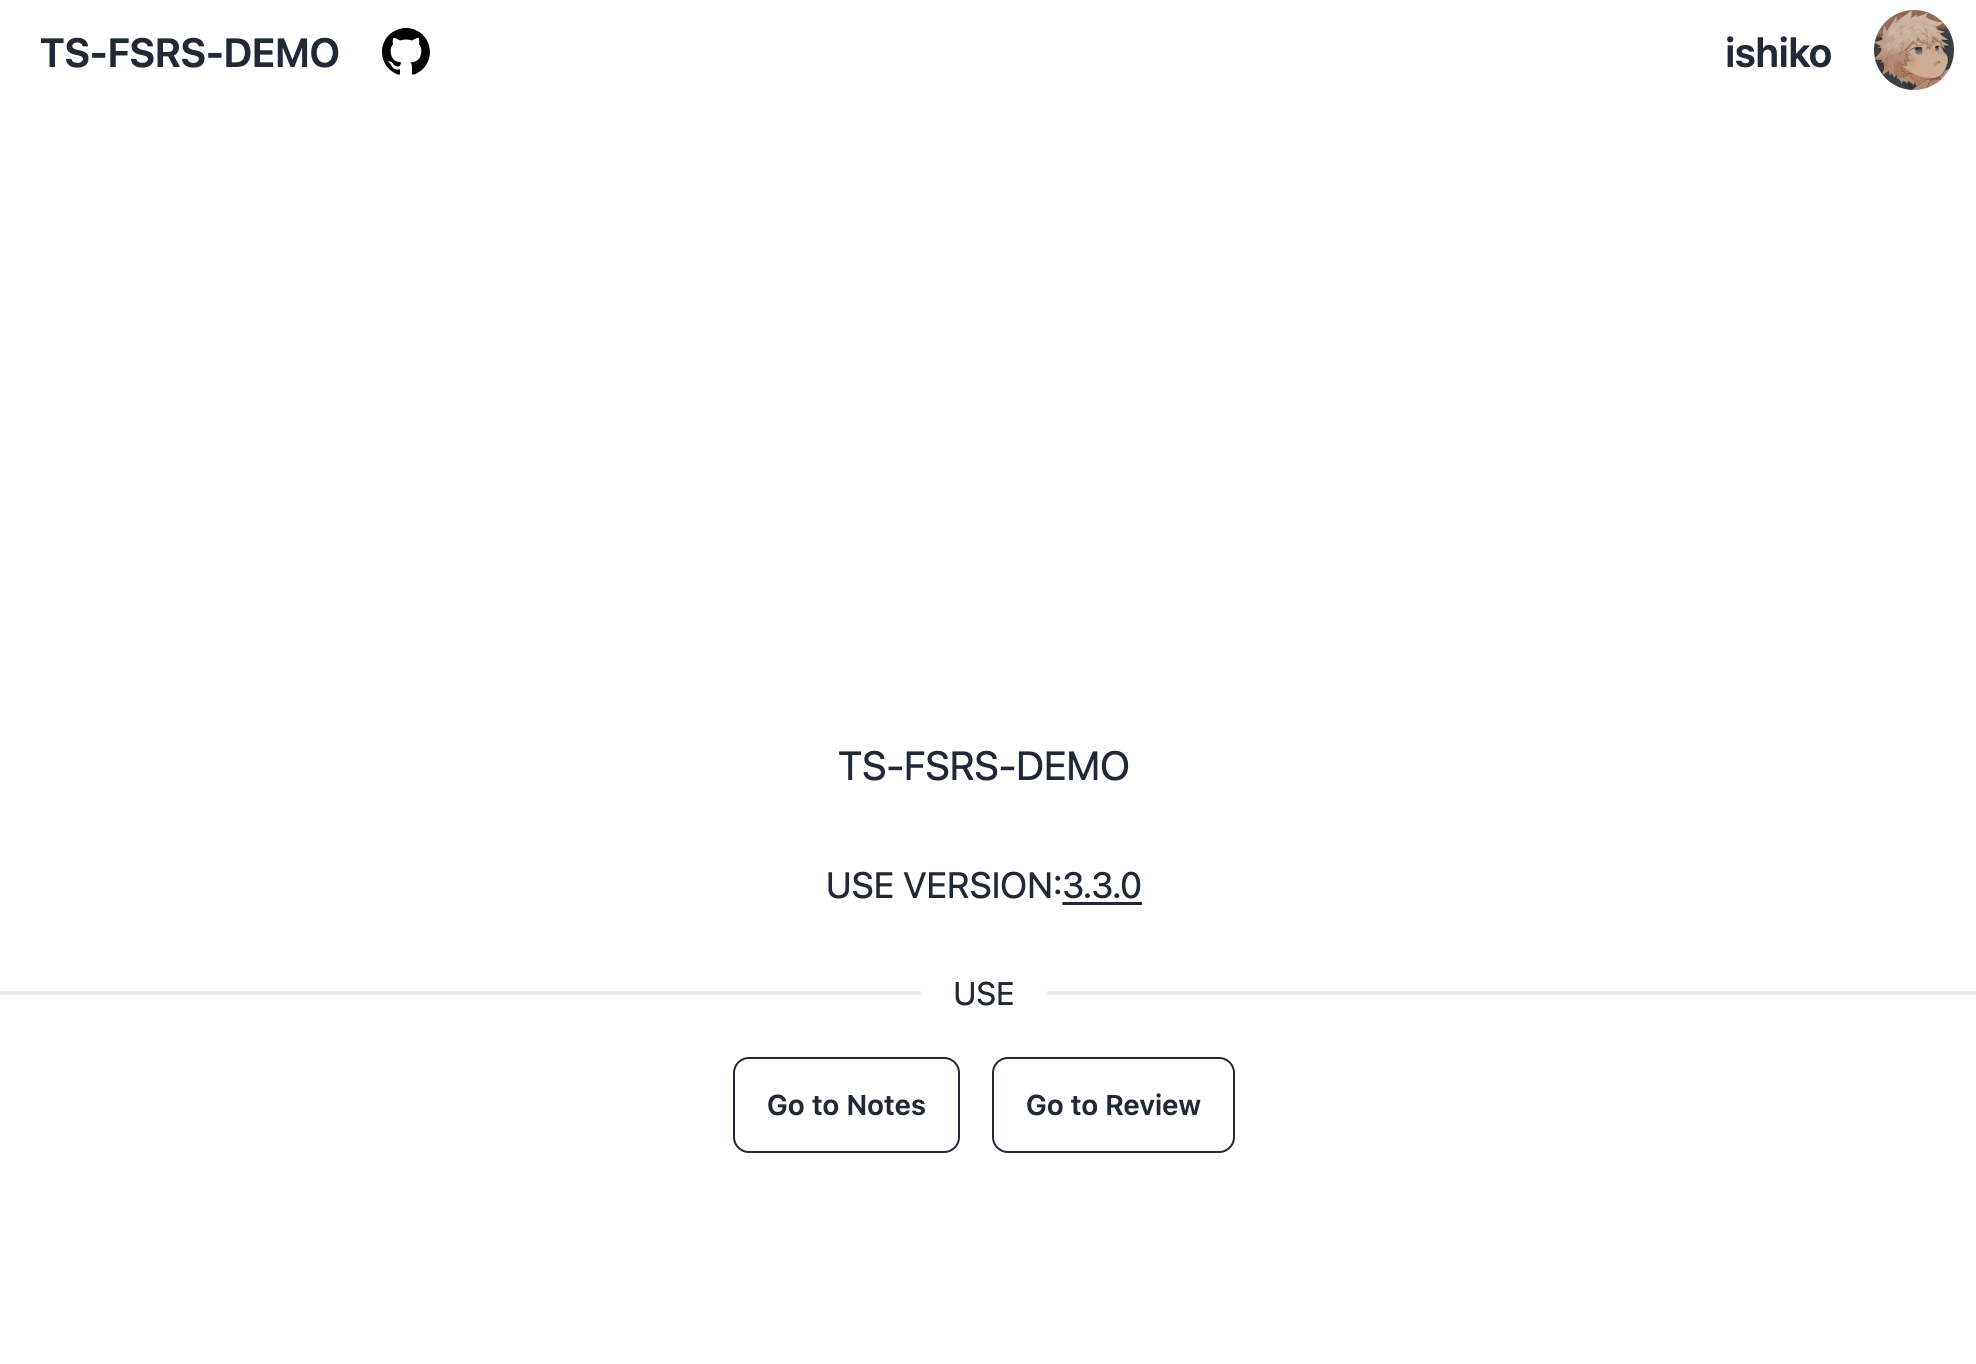
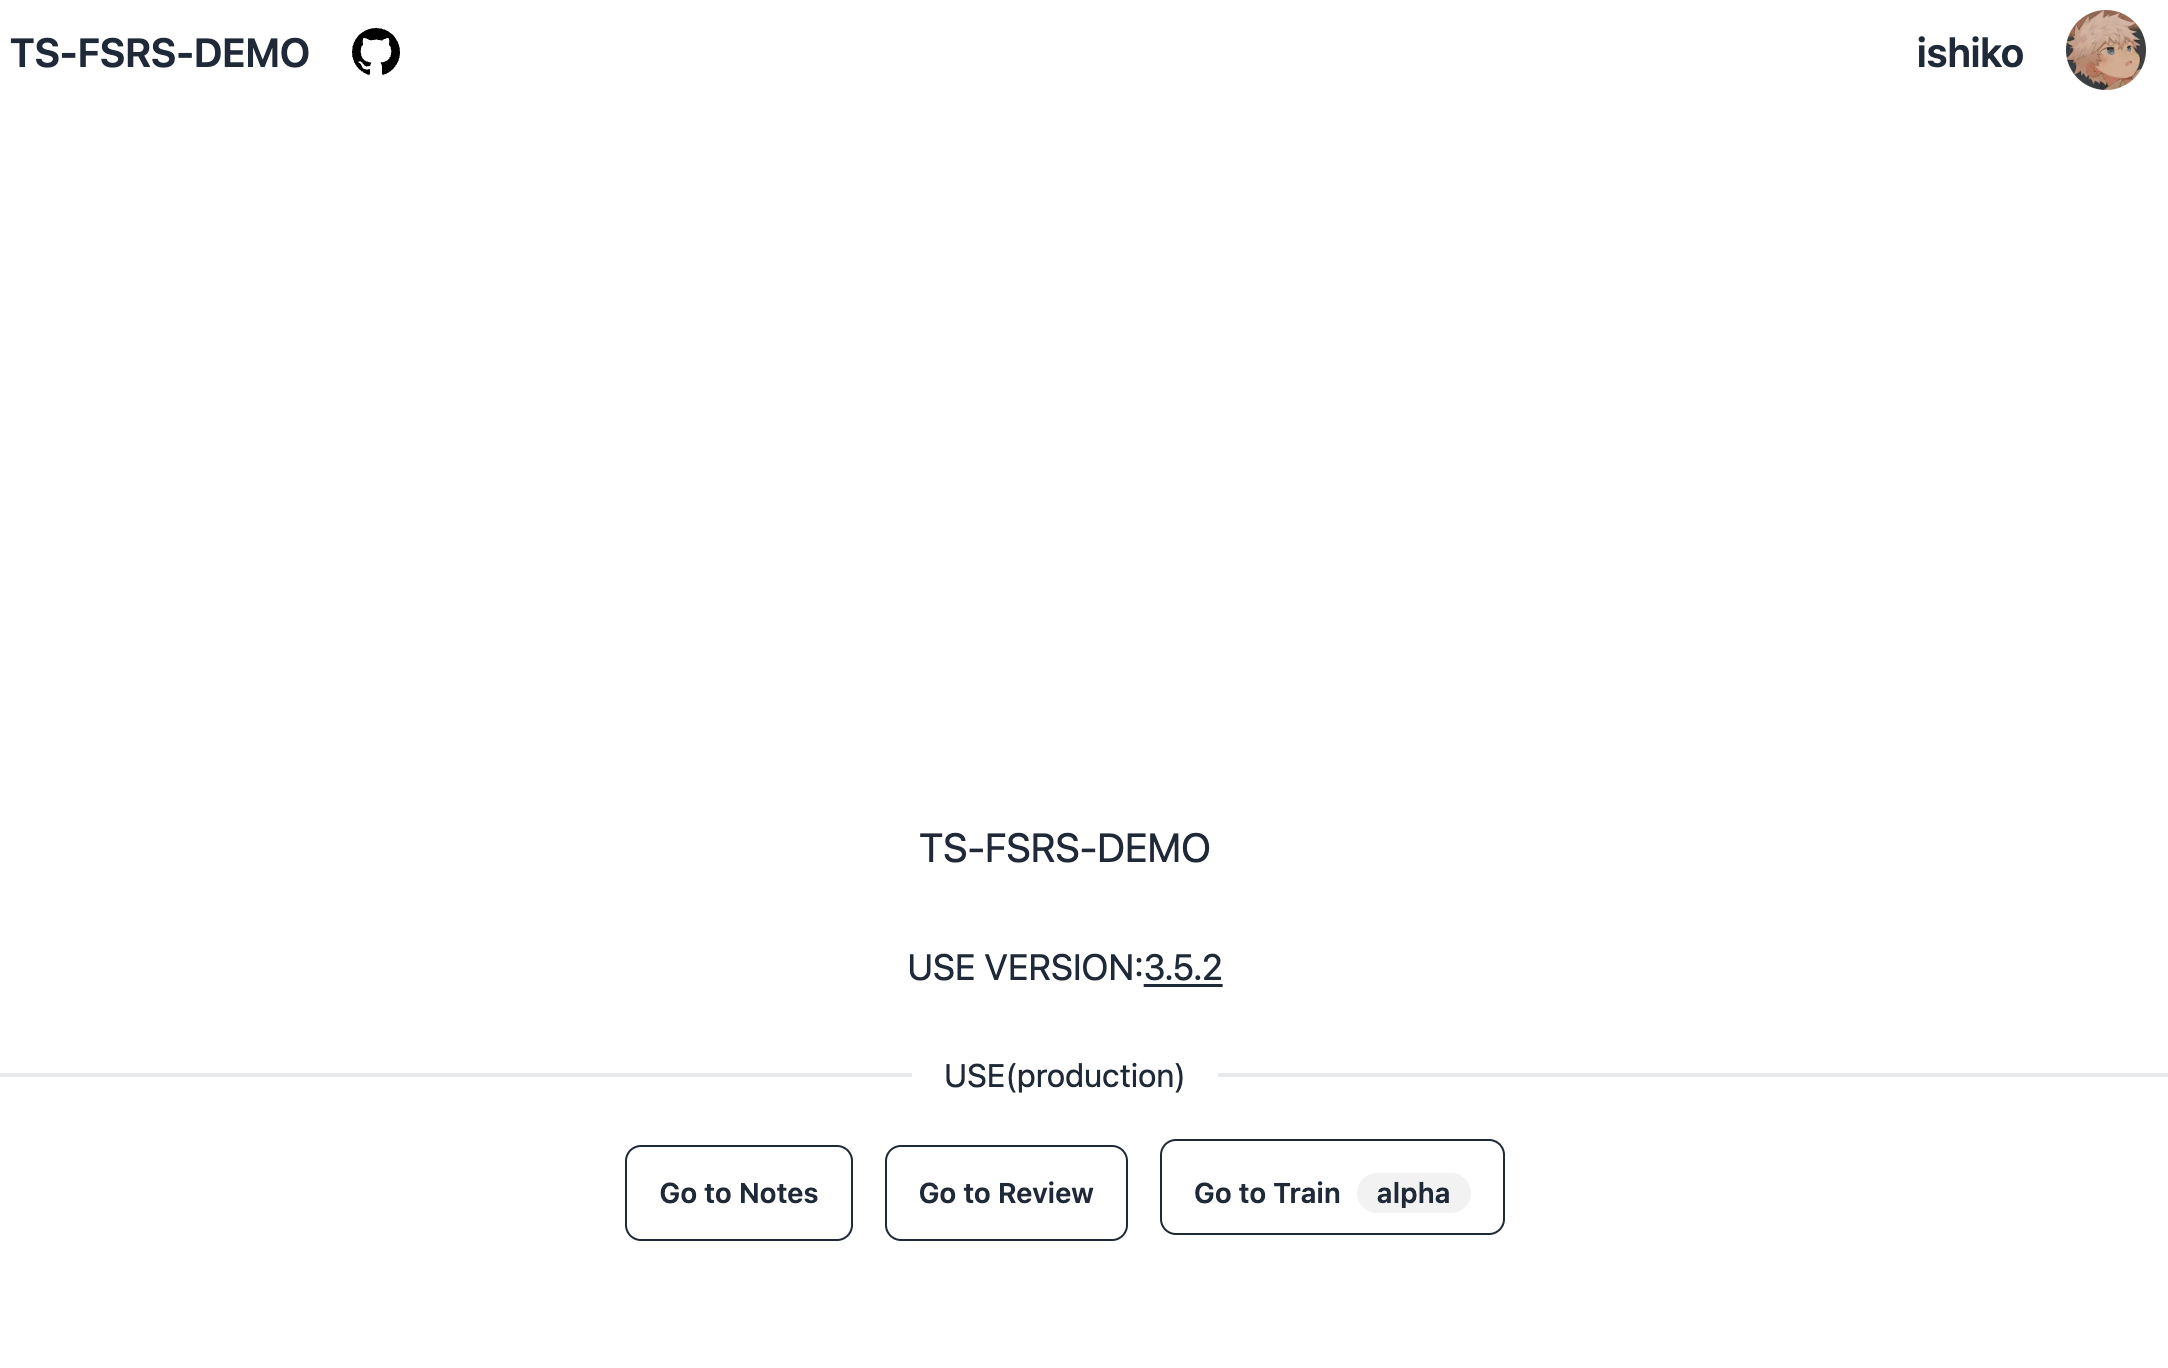
Doc/update README.md

diff --git a/README.md b/README.md
@@ -10,9 +10,10 @@ use packages:
 - prisma (global) npm install -g prisma
 - dotenv (global) npm install -g dotenv
 - next.js (>= 14.2.0)
-- ts-fsrs (>= 3.2.1)
+- ts-fsrs (>= 3.5.3)
 - tailwindcss (>= 3)
 - daisyui (>= 4.4.22)
+- fsrs-browser (>= 0.6.1)
 ````
 
 ## Environment Variables
@@ -60,12 +61,12 @@ npm run dev # or yarn dev/ pnpm dev/ bun dev
 - Open [localhost:3000](http://localhost:3000)
 - Sign In
 
-## Display
+## Preview
 
 ### Home
 ![home](images/home.png)
 
-> Tip: ts-fsrs version:3.3.0
+> Tip: ts-fsrs version:3.5.3
 
 ### Notes
 ![Notes](images/notes.png)
@@ -93,6 +94,19 @@ npm run dev # or yarn dev/ pnpm dev/ bun dev
 
 ![FSRS Settings](images/settings.png)
 > You can customize the parameters of your FSRS params
+
+## Train
+use `fsrs-browser` to train.
+
+API Router:
+http://localhost:3000/api/fsrs/train
+![nodejs train](images/apiTrain.png)
+
+Client:
+http://localhost:3000/train
+![client train](images/train.png)
+> In training:
+![training](training.png)
 
 
 ## Build
